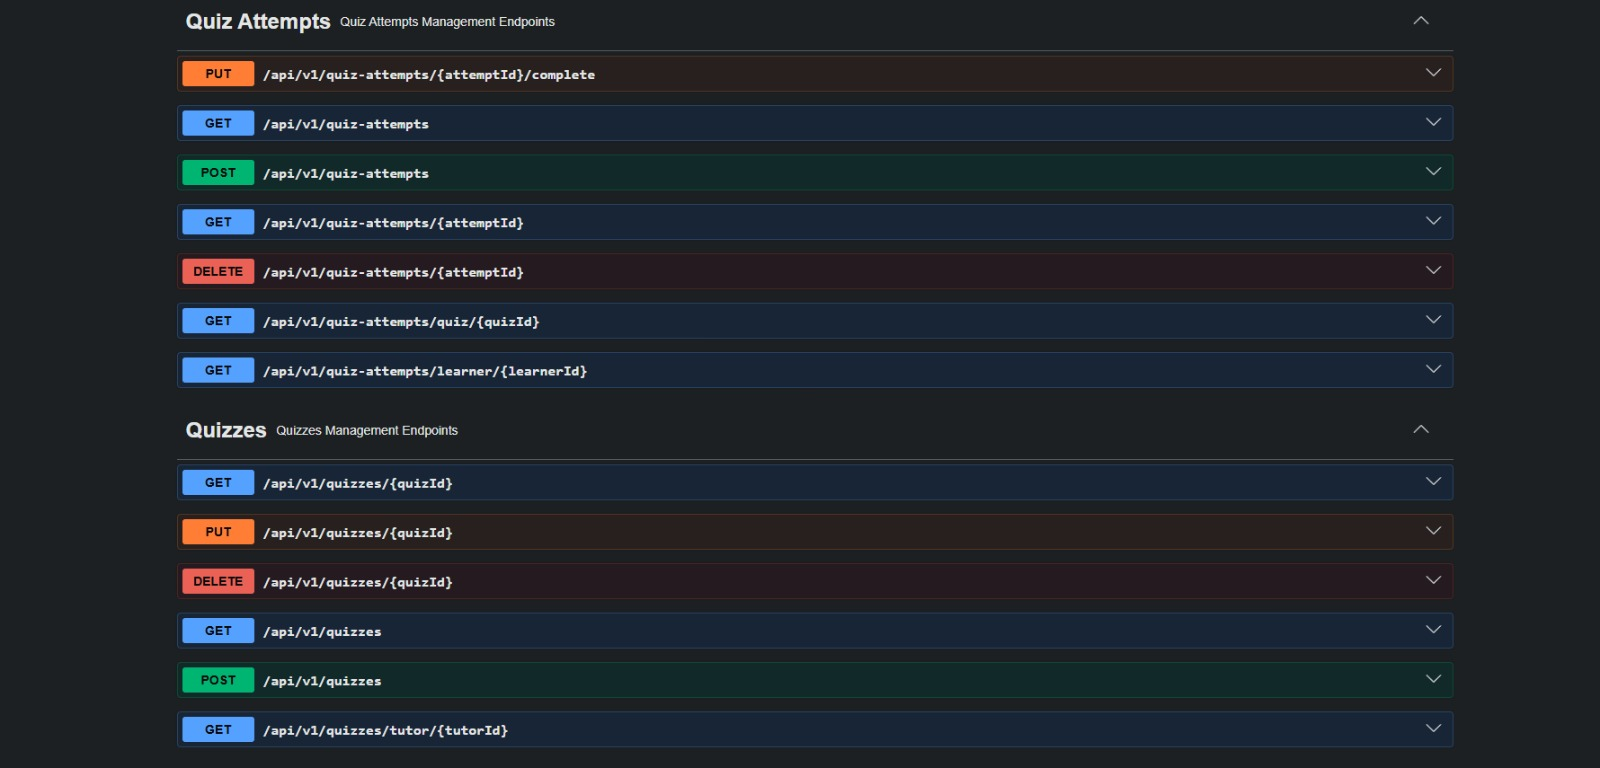
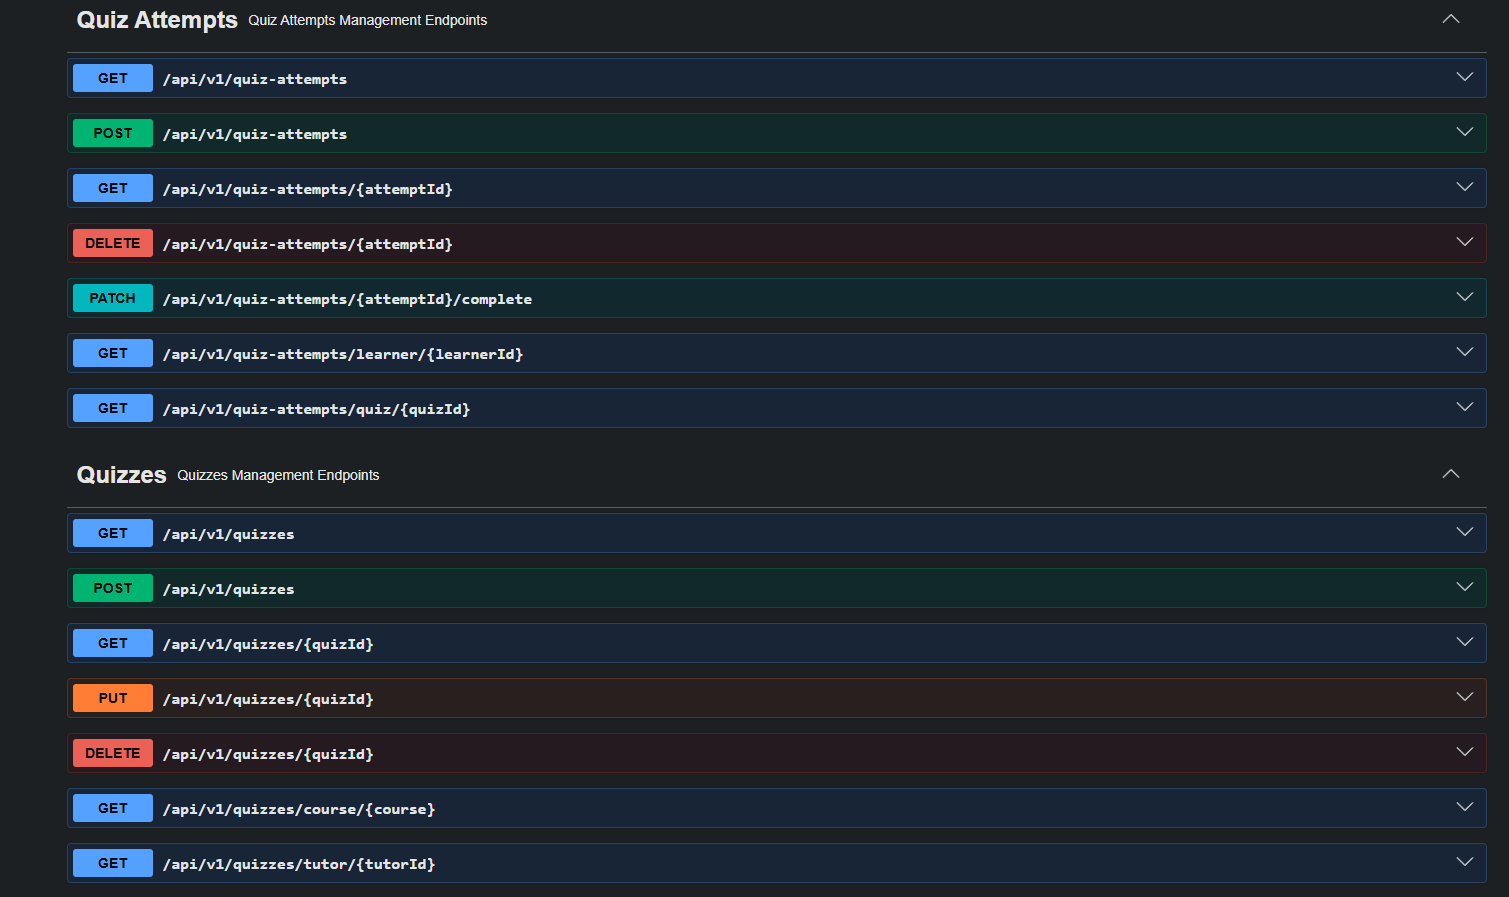
arreglando

diff --git a/1asi0729-11990-Skillswap-report-AV2.md b/1asi0729-11990-Skillswap-report-AV2.md
@@ -3795,7 +3795,9 @@ En esta sección se registra y explica el avance en términos de producto y trab
 ---
 
 ### 5.2.3.1.Sprint Planning 3.
-Esta sección detalla los aspectos principales de la reunión de planificación del Sprint 3. El equipo se reunió para definir el alcance de la tercera iteración, enfocándose en la construcción de los endpoints RESTful con Spring Boot para los bounded contexts del sistema, aplicando una arquitectura orientada a servicios, y en la conexión progresiva de dichos servicios con el frontend Angular ya desplegado.
+Para este Sprint 3, el equipo se comprometió a implementar el 40% del backend de SkillSwap, priorizando los bounded contexts de Workspace, 
+Reputation System y Moderation & Disputes como los más críticos para el core del negocio. Los bounded contexts de Discovery, Learning & 
+Assessment y Payments & Wallet se encuentran en proceso de implementación y serán completados en el Sprint 4.
 
 | Sprint # | Sprint 3 |
 | :--- | :--- |
@@ -4006,11 +4008,12 @@ En esta sección se incluye la relación de endpoints documentados con OpenAPI d
 
 | Endpoint | Action | HTTP Verb | Call Syntax | Parameters | Response Example |
 | :--- | :--- | :---: | :--- | :--- | :--- |
-| /api/v1/tutors | Create tutor | POST | `POST /api/v1/tutors` | Body: tutor object | `{"id":1,"name":"Carlos Mendoza","university":"UPC","bio":"...","rating":4.8,"skills":["Cálculo"],"available":true,"specialty":"Matemáticas","portfolioUrl":"...","yearsExperience":2}` |
+| /api/v1/tutors | Create tutor | POST | `POST /api/v1/tutors` | Body: tutor object | `{"id":1,"name":"Carlos Mendoza","university":"UPC","bio":"...","rating":4.8,"skills":["Cálculo"],"available":true,"specialty":"Matemáticas","portfolioUrl":"...","yearsExperience":2,"createdAt":"2026-06-15","updatedAt":"2026-06-15"}` |
 | /api/v1/tutors | Get all tutors | GET | `GET /api/v1/tutors` | None | `[{"id":1,"name":"Carlos Mendoza","university":"UPC","rating":4.8,"available":true}]` |
 | /api/v1/tutors/{tutorId} | Get tutor by ID | GET | `GET /api/v1/tutors/1` | tutorId (path) | `{"id":1,"name":"Carlos Mendoza","university":"UPC","rating":4.8}` |
 | /api/v1/tutors/available/{available} | Get tutors by availability | GET | `GET /api/v1/tutors/available/true` | available (path) | `[{"id":1,"name":"Carlos Mendoza","available":true}]` |
 | /api/v1/tutors/university/{university} | Get tutors by university | GET | `GET /api/v1/tutors/university/UPC` | university (path) | `[{"id":1,"name":"Carlos Mendoza","university":"UPC"}]` |
+| /api/v1/tutors/specialty/{specialty} | Get tutors by specialty | GET | `GET /api/v1/tutors/specialty/Matemáticas` | specialty (path) | `[{"id":1,"name":"Carlos Mendoza","specialty":"Matemáticas"}]` |
 | /api/v1/tutors/{tutorId} | Update tutor | PUT | `PUT /api/v1/tutors/1` | tutorId (path), Body: tutor object | `{"id":1,"name":"Carlos Mendoza","rating":4.9}` |
 | /api/v1/tutors/{tutorId} | Delete tutor | DELETE | `DELETE /api/v1/tutors/1` | tutorId (path) | 204 No Content |
 
@@ -4029,16 +4032,17 @@ En esta sección se incluye la relación de endpoints documentados con OpenAPI d
 
 | Endpoint | Action | HTTP Verb | Call Syntax | Parameters | Response Example |
 | :--- | :--- | :---: | :--- | :--- | :--- |
-| /api/v1/tutoring-sessions | Create tutoring session | POST | `POST /api/v1/tutoring-sessions` | Body: session object | `{"id":1,"topic":"Cálculo II","learnerId":1,"tutorId":1,"scheduledAt":"2026-06-10T10:00","status":"PENDING","message":"Necesito ayuda","studentLevel":"intermedio"}` |
-| /api/v1/tutoring-sessions | Get all tutoring sessions | GET | `GET /api/v1/tutoring-sessions` | None | `[{"id":1,"topic":"Cálculo II","status":"PENDING"}]` |
-| /api/v1/tutoring-sessions/{sessionId} | Get session by ID | GET | `GET /api/v1/tutoring-sessions/1` | sessionId (path) | `{"id":1,"topic":"Cálculo II","status":"PENDING"}` |
+| /api/v1/tutoring-sessions | Create tutoring session | POST | `POST /api/v1/tutoring-sessions` | Body: session object | `{"id":1,"topic":"Cálculo II","learnerId":1,"tutorId":1,"scheduledAt":"2026-06-10T10:00","status":"pending","message":"Necesito ayuda","studentLevel":"intermedio","createdAt":"2026-06-15","updatedAt":"2026-06-15"}` |
+| /api/v1/tutoring-sessions | Get all tutoring sessions | GET | `GET /api/v1/tutoring-sessions` | None | `[{"id":1,"topic":"Cálculo II","status":"pending"}]` |
+| /api/v1/tutoring-sessions/{sessionId} | Get session by ID | GET | `GET /api/v1/tutoring-sessions/1` | sessionId (path) | `{"id":1,"topic":"Cálculo II","status":"pending"}` |
 | /api/v1/tutoring-sessions/learner/{learnerId} | Get sessions by learner | GET | `GET /api/v1/tutoring-sessions/learner/1` | learnerId (path) | `[{"id":1,"topic":"Cálculo II","learnerId":1}]` |
 | /api/v1/tutoring-sessions/tutor/{tutorId} | Get sessions by tutor | GET | `GET /api/v1/tutoring-sessions/tutor/1` | tutorId (path) | `[{"id":1,"topic":"Cálculo II","tutorId":1}]` |
-| /api/v1/tutoring-sessions/{sessionId}/status | Update session status | PUT | `PUT /api/v1/tutoring-sessions/1/status` | sessionId (path), Body: `{"status":"SCHEDULED"}` | `{"id":1,"status":"SCHEDULED"}` |
-| /api/v1/tutoring-sessions/{sessionId} | Delete session | DELETE | `DELETE /api/v1/tutoring-sessions/1` | sessionId (path) | 204 No Content |
-| /api/v1/messages | Create message | POST | `POST /api/v1/messages` | Body: message object | `{"id":1,"content":"Hola","senderId":1,"sessionId":1,"sentAt":"2026-06-10T10:05"}` |
+| /api/v1/tutoring-sessions/status/{status} | Get sessions by status | GET | `GET /api/v1/tutoring-sessions/status/pending` | status (path) | `[{"id":1,"topic":"Cálculo II","status":"pending"}]` |
+| /api/v1/tutoring-sessions/{sessionId} | Update tutoring session | PUT | `PUT /api/v1/tutoring-sessions/1` | sessionId (path), Body: session object | `{"id":1,"topic":"Cálculo II actualizado","status":"pending"}` |
+| /api/v1/tutoring-sessions/{sessionId}/status | Update session status | PATCH | `PATCH /api/v1/tutoring-sessions/1/status` | sessionId (path), Body: `{"status":"scheduled"}` | `{"id":1,"status":"scheduled"}` |
+| /api/v1/messages | Create message | POST | `POST /api/v1/messages` | Body: message object | `{"id":1,"content":"Hola","senderId":1,"sessionId":1,"sentAt":"2026-06-10T10:05","createdAt":"2026-06-15","updatedAt":"2026-06-15"}` |
 | /api/v1/messages/session/{sessionId} | Get messages by session | GET | `GET /api/v1/messages/session/1` | sessionId (path) | `[{"id":1,"content":"Hola","senderId":1,"sessionId":1}]` |
-| /api/v1/messages/{messageId} | Delete message | DELETE | `DELETE /api/v1/messages/1` | messageId (path) | 204 No Content |
+| /api/v1/messages/{messageId} | Get message by ID | GET | `GET /api/v1/messages/1` | messageId (path) | `{"id":1,"content":"Hola","senderId":1,"sessionId":1}` |
 
 
 <figure style="text-align: center; margin-bottom: 40px;">
@@ -4054,16 +4058,19 @@ En esta sección se incluye la relación de endpoints documentados con OpenAPI d
 
 | Endpoint | Action | HTTP Verb | Call Syntax | Parameters | Response Example |
 | :--- | :--- | :---: | :--- | :--- | :--- |
-| /api/v1/quizzes | Create quiz | POST | `POST /api/v1/quizzes` | Body: quiz object | `{"id":1,"title":"Evaluación de Integrales","course":"Cálculo","tutorId":1,"questions":["¿Qué es una integral?"]}` |
+| /api/v1/quizzes | Create quiz | POST | `POST /api/v1/quizzes` | Body: quiz object | `{"id":1,"title":"Evaluación de Integrales","course":"Cálculo","tutorId":1,"questions":["¿Qué es una integral?"],"createdAt":"2026-06-15","updatedAt":"2026-06-15"}` |
 | /api/v1/quizzes | Get all quizzes | GET | `GET /api/v1/quizzes` | None | `[{"id":1,"title":"Evaluación de Integrales","course":"Cálculo"}]` |
 | /api/v1/quizzes/{quizId} | Get quiz by ID | GET | `GET /api/v1/quizzes/1` | quizId (path) | `{"id":1,"title":"Evaluación de Integrales"}` |
 | /api/v1/quizzes/tutor/{tutorId} | Get quizzes by tutor | GET | `GET /api/v1/quizzes/tutor/1` | tutorId (path) | `[{"id":1,"title":"Evaluación de Integrales","tutorId":1}]` |
+| /api/v1/quizzes/course/{course} | Get quizzes by course | GET | `GET /api/v1/quizzes/course/Cálculo` | course (path) | `[{"id":1,"title":"Evaluación de Integrales","course":"Cálculo"}]` |
 | /api/v1/quizzes/{quizId} | Update quiz | PUT | `PUT /api/v1/quizzes/1` | quizId (path), Body: quiz object | `{"id":1,"title":"Evaluación actualizada"}` |
 | /api/v1/quizzes/{quizId} | Delete quiz | DELETE | `DELETE /api/v1/quizzes/1` | quizId (path) | 204 No Content |
-| /api/v1/quiz-attempts | Create quiz attempt | POST | `POST /api/v1/quiz-attempts` | Body: `{"quizId":1,"learnerId":1}` | `{"id":1,"quizId":1,"learnerId":1,"status":"IN_PROGRESS"}` |
-| /api/v1/quiz-attempts | Get all quiz attempts | GET | `GET /api/v1/quiz-attempts` | None | `[{"id":1,"quizId":1,"learnerId":1,"status":"IN_PROGRESS"}]` |
-| /api/v1/quiz-attempts/{attemptId} | Get attempt by ID | GET | `GET /api/v1/quiz-attempts/1` | attemptId (path) | `{"id":1,"quizId":1,"learnerId":1,"score":null,"status":"IN_PROGRESS"}` |
-| /api/v1/quiz-attempts/{attemptId}/complete | Complete quiz attempt | PUT | `PUT /api/v1/quiz-attempts/1/complete` | attemptId (path), Body: `{"score":4.5}` | `{"id":1,"score":4.5,"status":"COMPLETED"}` |
+| /api/v1/quiz-attempts | Create quiz attempt | POST | `POST /api/v1/quiz-attempts` | Body: `{"quizId":1,"learnerId":1}` | `{"id":1,"quizId":1,"learnerId":1,"status":"in_progress","createdAt":"2026-06-15"}` |
+| /api/v1/quiz-attempts | Get all quiz attempts | GET | `GET /api/v1/quiz-attempts` | None | `[{"id":1,"quizId":1,"learnerId":1,"status":"in_progress"}]` |
+| /api/v1/quiz-attempts/{attemptId} | Get attempt by ID | GET | `GET /api/v1/quiz-attempts/1` | attemptId (path) | `{"id":1,"quizId":1,"learnerId":1,"score":null,"status":"in_progress"}` |
+| /api/v1/quiz-attempts/learner/{learnerId} | Get attempts by learner | GET | `GET /api/v1/quiz-attempts/learner/1` | learnerId (path) | `[{"id":1,"quizId":1,"learnerId":1,"status":"in_progress"}]` |
+| /api/v1/quiz-attempts/quiz/{quizId} | Get attempts by quiz | GET | `GET /api/v1/quiz-attempts/quiz/1` | quizId (path) | `[{"id":1,"quizId":1,"learnerId":1}]` |
+| /api/v1/quiz-attempts/{attemptId}/complete | Complete quiz attempt | PATCH | `PATCH /api/v1/quiz-attempts/1/complete` | attemptId (path), Body: `{"score":4.5}` | `{"id":1,"score":4.5,"status":"completed"}` |
 | /api/v1/quiz-attempts/{attemptId} | Delete quiz attempt | DELETE | `DELETE /api/v1/quiz-attempts/1` | attemptId (path) | 204 No Content |
 
 
@@ -4080,12 +4087,12 @@ En esta sección se incluye la relación de endpoints documentados con OpenAPI d
 
 | Endpoint | Action | HTTP Verb | Call Syntax | Parameters | Response Example |
 | :--- | :--- | :---: | :--- | :--- | :--- |
-| /api/v1/reviews | Submit review | POST | `POST /api/v1/reviews` | Body: review object | `{"id":1,"tutorId":1,"learnerId":1,"learnerName":"Jazmín","rating":5.0,"comment":"Excelente tutor","sessionId":1,"tutorReply":""}` |
+| /api/v1/reviews | Submit review | POST | `POST /api/v1/reviews` | Body: review object | `{"id":1,"tutorId":1,"learnerId":1,"learnerName":"Jazmín","rating":5.0,"comment":"Excelente tutor","sessionId":1,"tutorReply":"","createdAt":"2026-06-15","updatedAt":"2026-06-15"}` |
 | /api/v1/reviews | Get all reviews | GET | `GET /api/v1/reviews` | None | `[{"id":1,"tutorId":1,"rating":5.0,"comment":"Excelente tutor"}]` |
 | /api/v1/reviews/{reviewId} | Get review by ID | GET | `GET /api/v1/reviews/1` | reviewId (path) | `{"id":1,"tutorId":1,"rating":5.0}` |
 | /api/v1/reviews/tutor/{tutorId} | Get reviews by tutor | GET | `GET /api/v1/reviews/tutor/1` | tutorId (path) | `[{"id":1,"tutorId":1,"rating":5.0}]` |
 | /api/v1/reviews/learner/{learnerId} | Get reviews by learner | GET | `GET /api/v1/reviews/learner/1` | learnerId (path) | `[{"id":1,"learnerId":1,"rating":5.0}]` |
-| /api/v1/reviews/{reviewId} | Update review | PUT | `PUT /api/v1/reviews/1` | reviewId (path), Body: `{"rating":4.5,"comment":"Muy bueno","tutorReply":"Gracias"}` | `{"id":1,"rating":4.5}` |
+| /api/v1/reviews/{reviewId} | Update review | PUT | `PUT /api/v1/reviews/1` | reviewId (path), Body: `{"rating":4.5,"comment":"Muy bueno","tutorReply":"Gracias"}` | `{"id":1,"rating":4.5,"tutorReply":"Gracias","updatedAt":"2026-06-15"}` |
 | /api/v1/reviews/{reviewId} | Delete review | DELETE | `DELETE /api/v1/reviews/1` | reviewId (path) | 204 No Content |
 
 
@@ -4103,19 +4110,19 @@ En esta sección se incluye la relación de endpoints documentados con OpenAPI d
 
 | Endpoint | Action | HTTP Verb | Call Syntax | Parameters | Response Example |
 | :--- | :--- | :---: | :--- | :--- | :--- |
-| /api/v1/donations | Process donation | POST | `POST /api/v1/donations` | Body: `{"donorId":1,"tutorId":1,"sessionId":1,"amount":20.00,"commission":5.0,"currency":"PEN"}` | `{"id":1,"amount":20.00,"netAmount":19.00,"commission":5.0,"status":"PENDING","currency":"PEN"}` |
-| /api/v1/donations | Get all donations | GET | `GET /api/v1/donations` | None | `[{"id":1,"amount":20.00,"status":"PENDING"}]` |
-| /api/v1/donations/{donationId} | Get donation by ID | GET | `GET /api/v1/donations/1` | donationId (path) | `{"id":1,"amount":20.00,"status":"PENDING"}` |
+| /api/v1/donations | Process donation | POST | `POST /api/v1/donations` | Body: `{"donorId":1,"tutorId":1,"sessionId":1,"amount":20.00,"commission":5.0,"currency":"PEN"}` | `{"id":1,"amount":20.00,"netAmount":19.00,"commission":5.0,"status":"pending","currency":"PEN","createdAt":"2026-06-15"}` |
+| /api/v1/donations | Get all donations | GET | `GET /api/v1/donations` | None | `[{"id":1,"amount":20.00,"status":"pending"}]` |
+| /api/v1/donations/{donationId} | Get donation by ID | GET | `GET /api/v1/donations/1` | donationId (path) | `{"id":1,"amount":20.00,"status":"pending"}` |
 | /api/v1/donations/donor/{donorId} | Get donations by donor | GET | `GET /api/v1/donations/donor/1` | donorId (path) | `[{"id":1,"donorId":1,"amount":20.00}]` |
 | /api/v1/donations/tutor/{tutorId} | Get donations by tutor | GET | `GET /api/v1/donations/tutor/1` | tutorId (path) | `[{"id":1,"tutorId":1,"amount":20.00}]` |
-| /api/v1/donations/{donationId}/status | Update donation status | PUT | `PUT /api/v1/donations/1/status` | donationId (path), Body: `{"status":"COMPLETED"}` | `{"id":1,"status":"COMPLETED"}` |
-| /api/v1/donations/{donationId} | Delete donation | DELETE | `DELETE /api/v1/donations/1` | donationId (path) | 204 No Content |
-| /api/v1/wallets | Create wallet | POST | `POST /api/v1/wallets` | Body: `{"tutorId":1,"currency":"PEN","bankName":"BCP","accountNumber":"123456789"}` | `{"id":1,"tutorId":1,"balance":0.0,"currency":"PEN"}` |
-| /api/v1/wallets | Get all wallets | GET | `GET /api/v1/wallets` | None | `[{"id":1,"tutorId":1,"balance":19.00,"currency":"PEN"}]` |
-| /api/v1/wallets/{walletId} | Get wallet by ID | GET | `GET /api/v1/wallets/1` | walletId (path) | `{"id":1,"tutorId":1,"balance":19.00}` |
-| /api/v1/wallets/tutor/{tutorId} | Get wallet by tutor | GET | `GET /api/v1/wallets/tutor/1` | tutorId (path) | `{"id":1,"tutorId":1,"balance":19.00}` |
-| /api/v1/wallets/{walletId}/add-funds | Add funds to wallet | PUT | `PUT /api/v1/wallets/1/add-funds` | walletId (path), Body: `{"amount":50.00}` | `{"id":1,"balance":69.00}` |
-| /api/v1/wallets/{walletId}/withdraw-funds | Withdraw funds from wallet | PUT | `PUT /api/v1/wallets/1/withdraw-funds` | walletId (path), Body: `{"amount":20.00}` | `{"id":1,"balance":49.00}` |
+| /api/v1/donations/status/{status} | Get donations by status | GET | `GET /api/v1/donations/status/pending` | status (path) | `[{"id":1,"amount":20.00,"status":"pending"}]` |
+| /api/v1/donations/{donationId}/status | Update donation status | PATCH | `PATCH /api/v1/donations/1/status` | donationId (path), Body: `{"status":"completed"}` | `{"id":1,"status":"completed"}` |
+| /api/v1/wallets | Create wallet | POST | `POST /api/v1/wallets` | Body: `{"tutorId":1,"currency":"PEN","bankName":"BCP","accountNumber":"123456789"}` | `{"id":1,"tutorId":1,"balance":0.0,"currency":"PEN","createdAt":"2026-06-15"}` |
+| /api/v1/wallets | Get all wallets | GET | `GET /api/v1/wallets` | None | `[{"id":1,"tutorId":1,"balance":0.0,"currency":"PEN"}]` |
+| /api/v1/wallets/{walletId} | Get wallet by ID | GET | `GET /api/v1/wallets/1` | walletId (path) | `{"id":1,"tutorId":1,"balance":0.0}` |
+| /api/v1/wallets/tutor/{tutorId} | Get wallet by tutor | GET | `GET /api/v1/wallets/tutor/1` | tutorId (path) | `{"id":1,"tutorId":1,"balance":0.0}` |
+| /api/v1/wallets/{walletId}/add-funds | Add funds to wallet | PATCH | `PATCH /api/v1/wallets/1/add-funds` | walletId (path), Body: `{"amount":50.00}` | `{"id":1,"balance":50.00}` |
+| /api/v1/wallets/{walletId}/withdraw-funds | Withdraw funds from wallet | PATCH | `PATCH /api/v1/wallets/1/withdraw-funds` | walletId (path), Body: `{"amount":20.00}` | `{"id":1,"balance":30.00}` |
 
 
 
@@ -4133,17 +4140,21 @@ En esta sección se incluye la relación de endpoints documentados con OpenAPI d
 
 | Endpoint | Action | HTTP Verb | Call Syntax | Parameters | Response Example |
 | :--- | :--- | :---: | :--- | :--- | :--- |
-| /api/v1/reports | Submit report | POST | `POST /api/v1/reports` | Body: report object | `{"id":1,"reporterId":1,"reporterName":"Jazmín","reportedUserId":2,"reason":"Lenguaje ofensivo","description":"...","status":"PENDING","sessionId":1}` |
-| /api/v1/reports | Get all reports | GET | `GET /api/v1/reports` | None | `[{"id":1,"reporterId":1,"status":"PENDING"}]` |
-| /api/v1/reports/{reportId} | Get report by ID | GET | `GET /api/v1/reports/1` | reportId (path) | `{"id":1,"reporterId":1,"status":"PENDING"}` |
-| /api/v1/reports/reporter/{reporterId} | Get reports by reporter | GET | `GET /api/v1/reports/reporter/1` | reporterId (path) | `[{"id":1,"reporterId":1}]` |
-| /api/v1/reports/status/{status} | Get reports by status | GET | `GET /api/v1/reports/status/PENDING` | status (path) | `[{"id":1,"status":"PENDING"}]` |
-| /api/v1/reports/{reportId}/status | Update report status | PUT | `PUT /api/v1/reports/1/status` | reportId (path), Body: `{"status":"RESOLVED"}` | `{"id":1,"status":"RESOLVED"}` |
+| /api/v1/reports | Submit report | POST | `POST /api/v1/reports` | Body: report object | `{"id":1,"reporterUserId":1,"reportedUserId":2,"reason":"Lenguaje ofensivo","status":"pending","closed":false,"reportedAt":"2026-06-15","createdAt":"2026-06-15","updatedAt":"2026-06-15"}` |
+| /api/v1/reports | Get all reports | GET | `GET /api/v1/reports` | None | `[{"id":1,"reporterUserId":1,"reportedUserId":2,"status":"pending","closed":false}]` |
+| /api/v1/reports/{reportId} | Get report by ID | GET | `GET /api/v1/reports/1` | reportId (path) | `{"id":1,"reporterUserId":1,"reportedUserId":2,"status":"pending","closed":false}` |
+| /api/v1/reports/active | Get active reports | GET | `GET /api/v1/reports/active` | None | `[{"id":1,"status":"pending","closed":false}]` |
+| /api/v1/reports/resolved | Get resolved reports | GET | `GET /api/v1/reports/resolved` | None | `[{"id":2,"status":"resolved","closed":true}]` |
+| /api/v1/reports/by-reported-user/{reportedUserId} | Get reports by reported user | GET | `GET /api/v1/reports/by-reported-user/2` | reportedUserId (path) | `[{"id":1,"reportedUserId":2,"status":"pending"}]` |
+| /api/v1/reports/{reportId} | Update report | PUT | `PUT /api/v1/reports/1` | reportId (path), Body: `{"reason":"...","status":"reviewed","closed":false}` | `{"id":1,"status":"reviewed","closed":false}` |
+| /api/v1/reports/{reportId}/close | Close report | PATCH | `PATCH /api/v1/reports/1/close` | reportId (path) | `{"id":1,"status":"resolved","closed":true}` |
 | /api/v1/reports/{reportId} | Delete report | DELETE | `DELETE /api/v1/reports/1` | reportId (path) | 204 No Content |
-| /api/v1/sanctions | Create sanction | POST | `POST /api/v1/sanctions` | Body: `{"userId":2,"type":"WARNING","reason":"Lenguaje ofensivo","reportId":1,"expiresAt":"2026-07-01T00:00"}` | `{"id":1,"userId":2,"type":"WARNING"}` |
-| /api/v1/sanctions | Get all sanctions | GET | `GET /api/v1/sanctions` | None | `[{"id":1,"userId":2,"type":"WARNING"}]` |
-| /api/v1/sanctions/{sanctionId} | Get sanction by ID | GET | `GET /api/v1/sanctions/1` | sanctionId (path) | `{"id":1,"userId":2,"type":"WARNING"}` |
-| /api/v1/sanctions/user/{userId} | Get sanctions by user | GET | `GET /api/v1/sanctions/user/2` | userId (path) | `[{"id":1,"userId":2,"type":"WARNING"}]` |
+| /api/v1/sanctions | Create sanction | POST | `POST /api/v1/sanctions` | Body: `{"reportId":1,"sanctionedUserId":2,"type":"warning","description":"Lenguaje ofensivo","durationDays":7}` | `{"id":1,"reportId":1,"sanctionedUserId":2,"type":"warning","durationDays":7,"createdAt":"2026-06-15"}` |
+| /api/v1/sanctions | Get all sanctions | GET | `GET /api/v1/sanctions` | None | `[{"id":1,"sanctionedUserId":2,"type":"warning"}]` |
+| /api/v1/sanctions/{sanctionId} | Get sanction by ID | GET | `GET /api/v1/sanctions/1` | sanctionId (path) | `{"id":1,"sanctionedUserId":2,"type":"warning"}` |
+| /api/v1/sanctions/by-report/{reportId} | Get sanctions by report | GET | `GET /api/v1/sanctions/by-report/1` | reportId (path) | `[{"id":1,"reportId":1,"type":"warning"}]` |
+| /api/v1/sanctions/by-user/{userId} | Get sanctions by user | GET | `GET /api/v1/sanctions/by-user/2` | userId (path) | `[{"id":1,"sanctionedUserId":2,"type":"warning"}]` |
+| /api/v1/sanctions/{sanctionId} | Update sanction | PUT | `PUT /api/v1/sanctions/1` | sanctionId (path), Body: `{"type":"suspension","description":"Reincidencia","durationDays":30}` | `{"id":1,"type":"suspension","durationDays":30}` |
 | /api/v1/sanctions/{sanctionId} | Delete sanction | DELETE | `DELETE /api/v1/sanctions/1` | sanctionId (path) | 204 No Content |
 
 *(Tabla. Tabla de Services Documentation Evidence for Sprint Review - Elaboración propia.)*
@@ -4155,6 +4166,16 @@ En esta sección se incluye la relación de endpoints documentados con OpenAPI d
     Figura. Captura de Swagger UI mostrando los endpoints implementados durante el Sprint 3, con ejemplos de request y response para los principales bounded contexts.
   </figcaption>
 </figure>
+
+
+> **Nota sobre el avance del backend:** Durante el Sprint 3 se implementó el 
+> 40% del backend de SkillSwap, priorizando los Bounded Contexts de mayor 
+> criticidad para el core del negocio. Los BC de Workspace, Reputation System 
+> y Moderation & Disputes se encuentran completamente implementados y desplegados 
+> en producción. Los BC de Discovery, Learning & Assessment y Payments & Wallet 
+> se encuentran en proceso de implementación y serán completados en el Sprint 4, 
+> junto con la integración total con el Frontend Angular y la implementación del 
+> BC de IAM con autenticación JWT.
 
 ---
 
